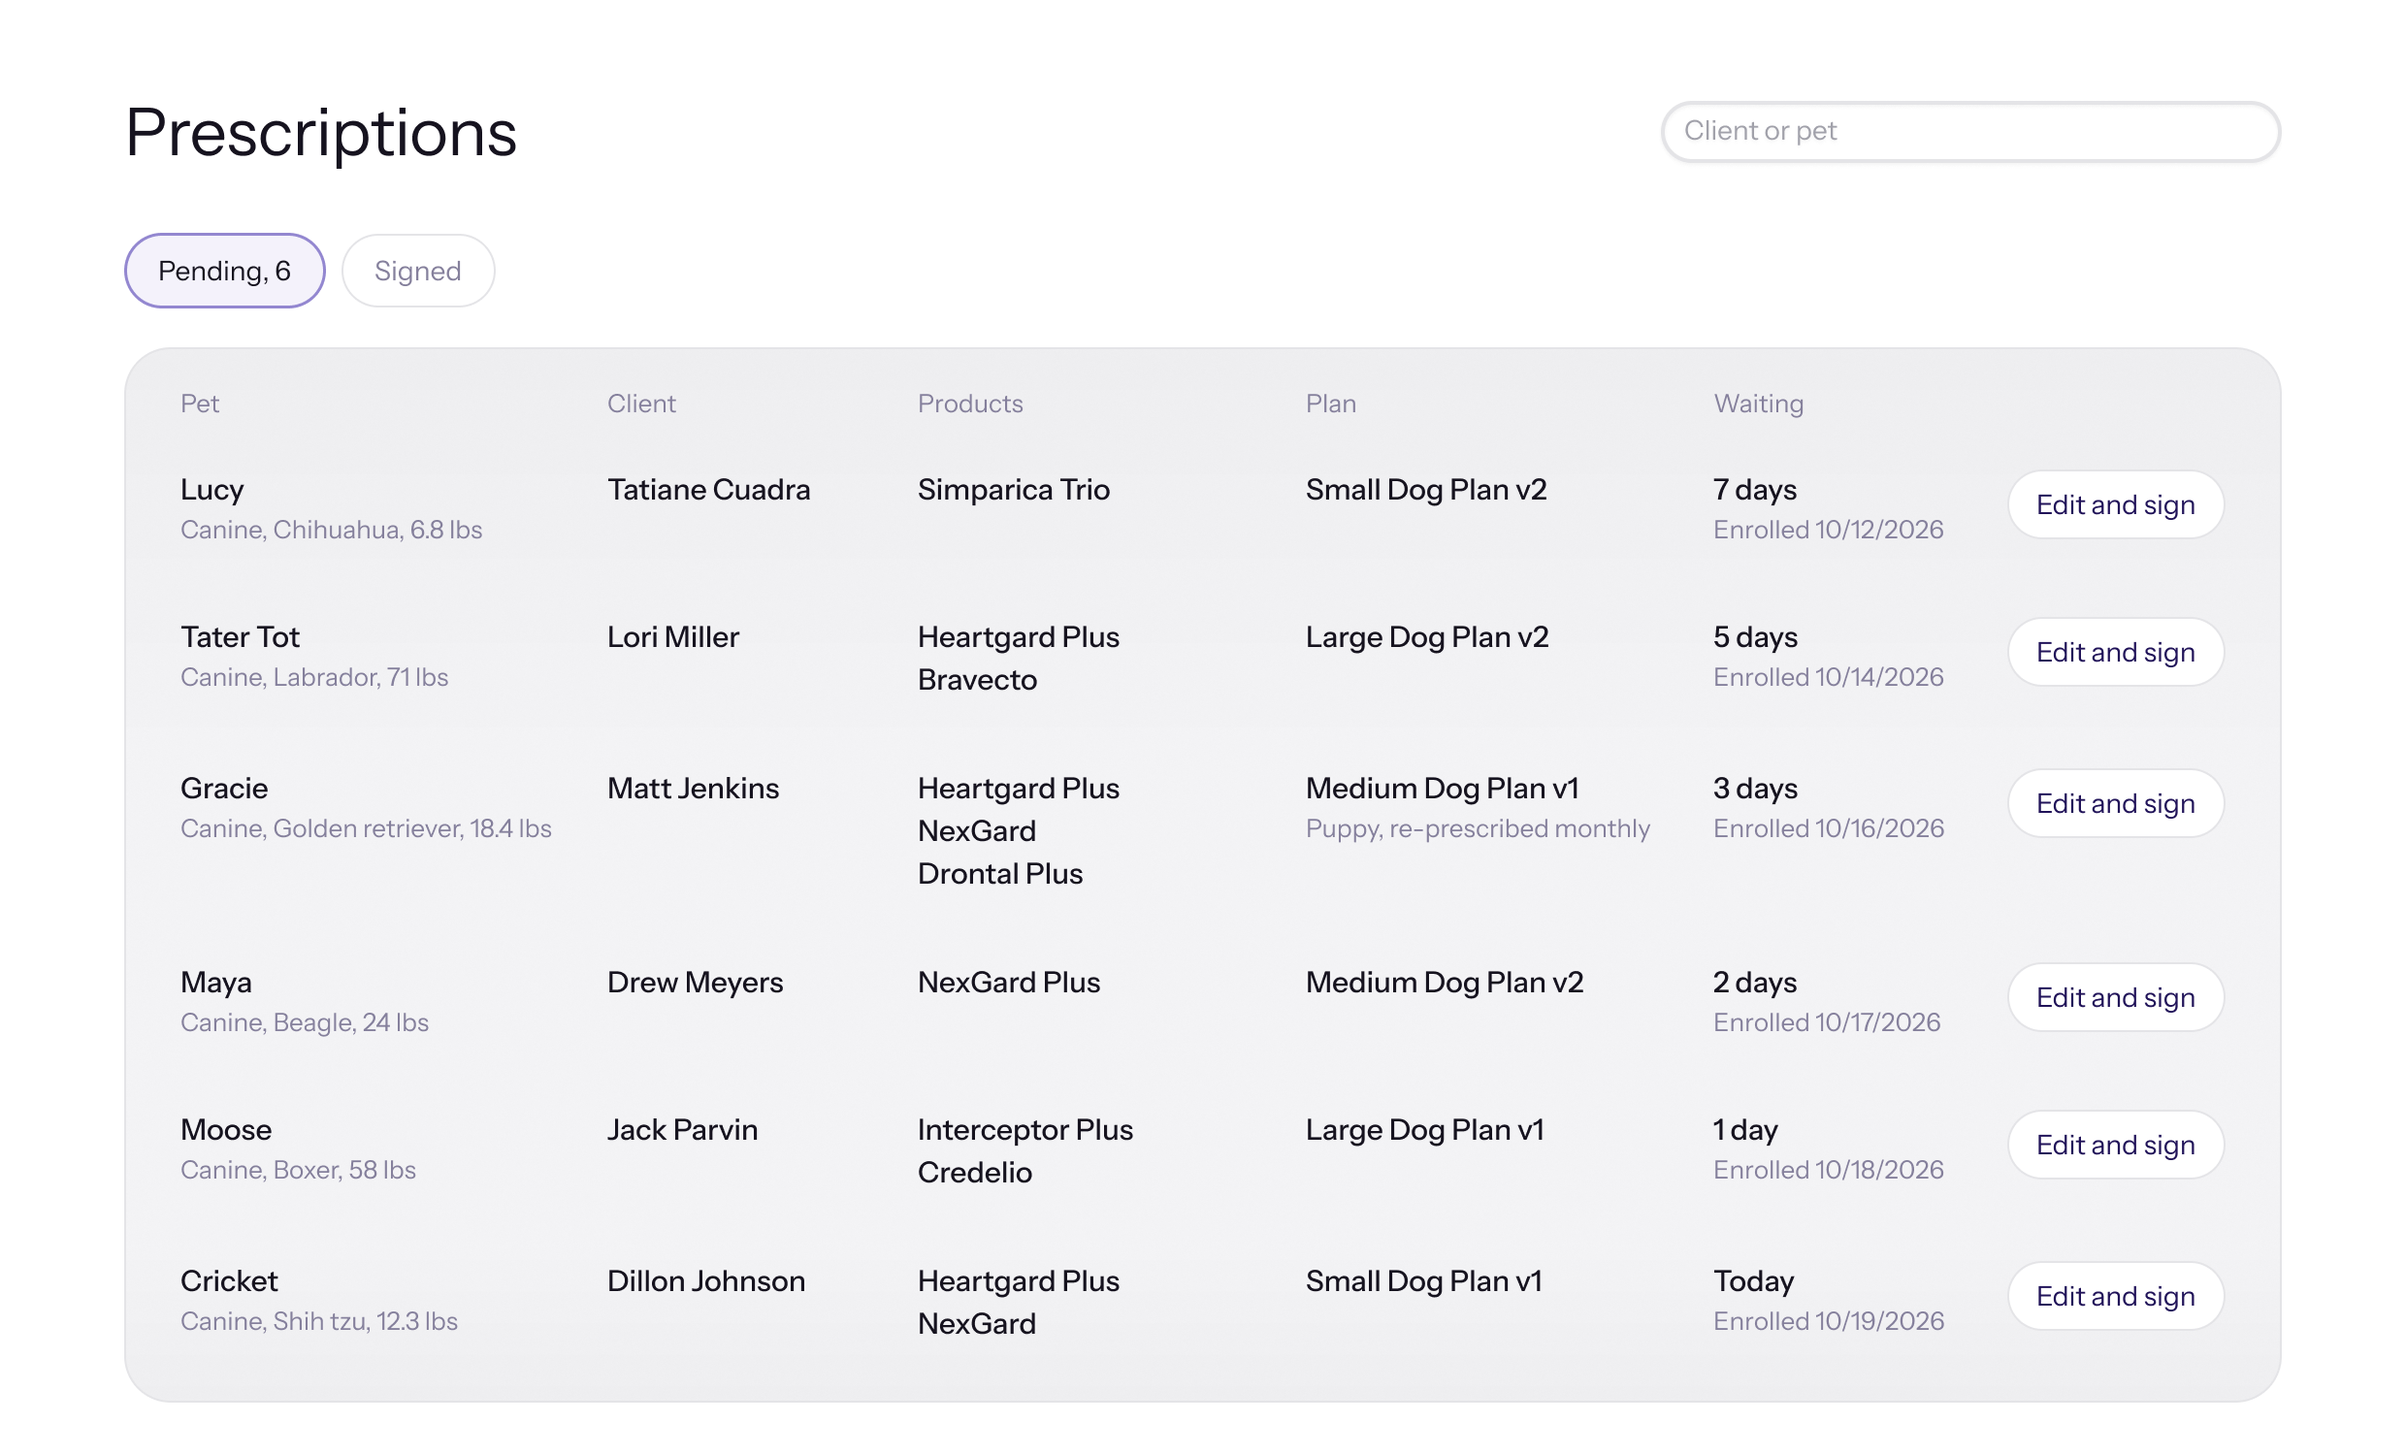
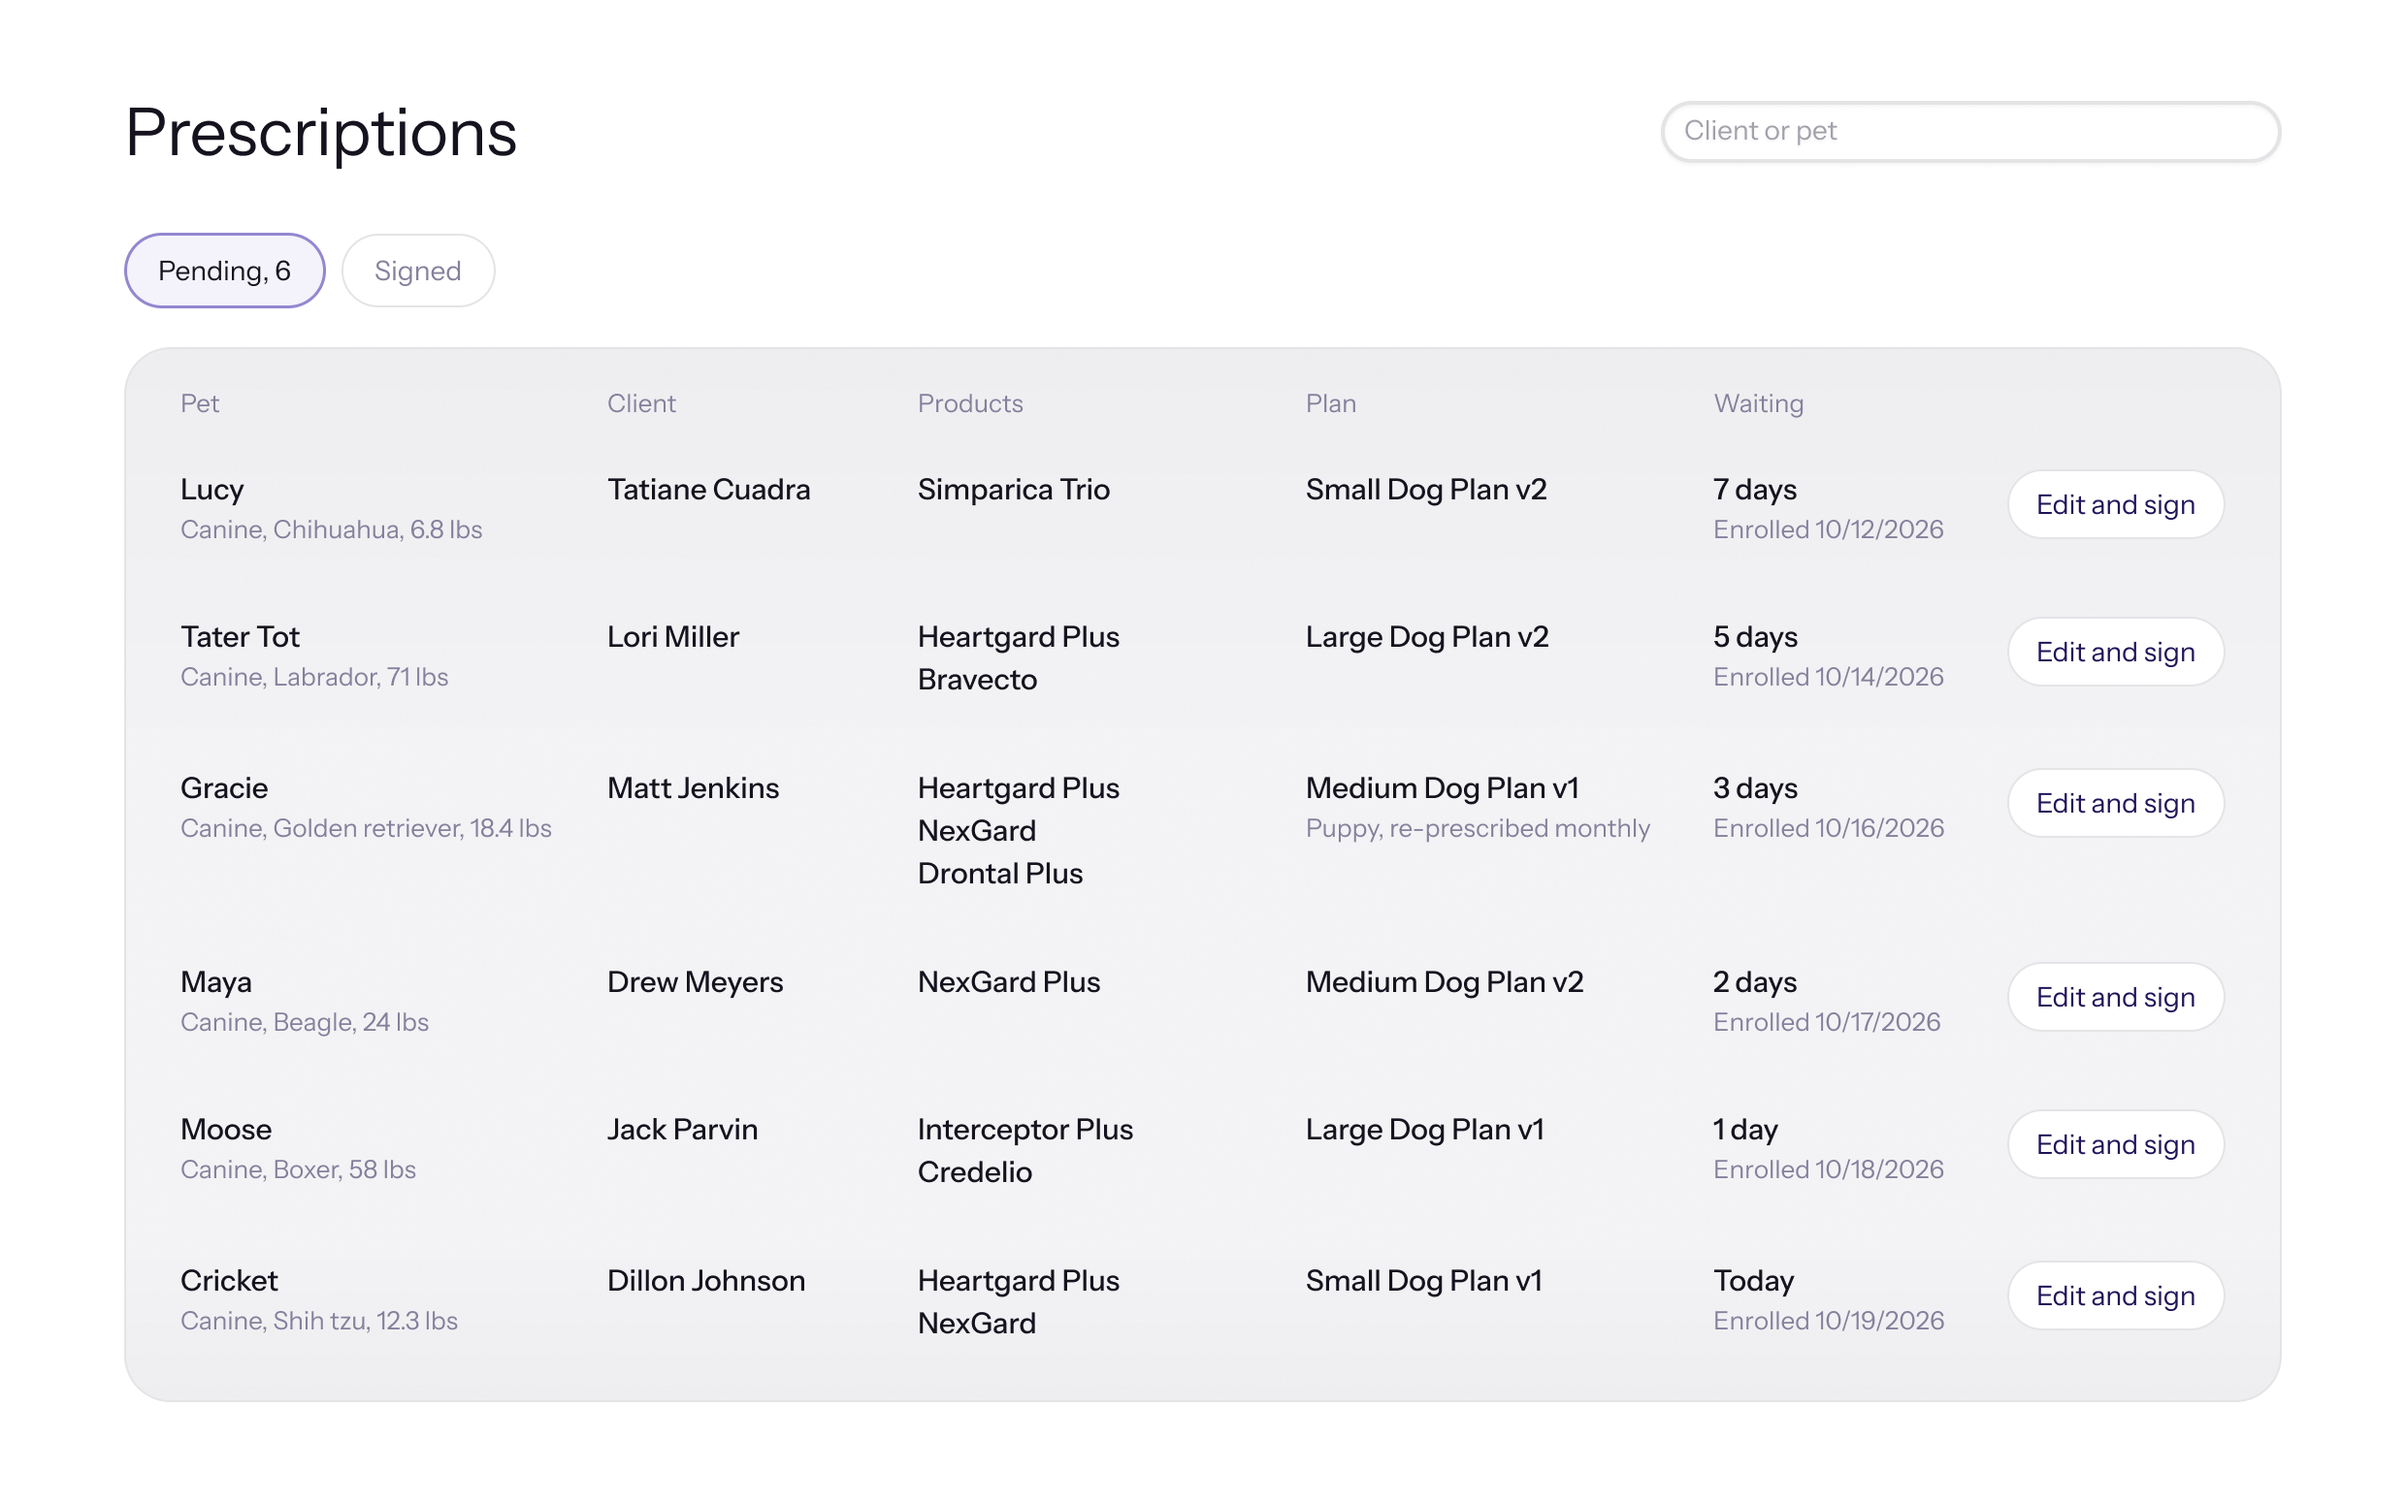
Easy Care: reorder Prescriptions copy

diff --git a/src/components/case/easy-care/nav.tsx b/src/components/case/easy-care/nav.tsx
@@ -1,0 +1,160 @@
+"use client";
+
+import { useEffect, useRef, useState } from "react";
+import localFont from "next/font/local";
+import { motion, useReducedMotion } from "motion/react";
+
+/**
+ * Easy Care's side navigation, assembling itself: the product name and clinic
+ * stay put while each section drops in, bounces and settles. It holds for a
+ * couple of beats, then everything falls away and it starts again. Same
+ * on-page container as the sign dialog (white, hairline border, no shadow);
+ * fixed size, so the page never shifts.
+ */
+const ecSans = localFont({
+  src: "../../../app/fonts/instrument-sans-latin-wght-normal.woff2",
+  weight: "400 700",
+  display: "swap",
+});
+
+const C = {
+  ink: "#16131F",
+  muted: "#85809C",
+  accent: "#9387D0",
+  border: "#E4E4E7",
+  tint: "#F4F2FB",
+};
+
+const ITEMS = [
+  "Enroll a pet",
+  "Plan activity",
+  "Service history",
+  "Prescriptions",
+  "Commissions",
+  "Orders",
+  "Plan settings",
+  "Reports",
+  "Doctors",
+];
+const ROW = 36; // px per nav row
+
+type Phase = "in" | "hold" | "out" | "gap";
+/** How long each phase lasts before the next begins. */
+const PHASE_MS: Record<Phase, number> = { in: 1400, hold: 2200, out: 950, gap: 350 };
+const NEXT: Record<Phase, Phase> = { in: "hold", hold: "out", out: "gap", gap: "in" };
+
+const DROP = { type: "spring", stiffness: 430, damping: 17, mass: 0.9 } as const;
+const FALL = [0.55, 0, 0.9, 0.4] as const; // gravity: slow start, fast finish
+const SOFT = [0.16, 1, 0.3, 1] as const;
+
+export function Nav() {
+  const reduce = useReducedMotion();
+  const [phase, setPhase] = useState<Phase>("in");
+  const [cycle, setCycle] = useState(0);
+  const stageRef = useRef<HTMLDivElement>(null);
+  const [inView, setInView] = useState(true);
+  const [tabVisible, setTabVisible] = useState(true);
+
+  useEffect(() => {
+    const el = stageRef.current;
+    if (!el || typeof IntersectionObserver === "undefined") return;
+    const io = new IntersectionObserver(([e]) => setInView(e.isIntersecting), { threshold: 0.15 });
+    io.observe(el);
+    const onVis = () => setTabVisible(document.visibilityState === "visible");
+    document.addEventListener("visibilitychange", onVis);
+    return () => {
+      io.disconnect();
+      document.removeEventListener("visibilitychange", onVis);
+    };
+  }, []);
+
+  const running = !reduce && inView && tabVisible;
+  useEffect(() => {
+    if (!running) return;
+    const t = window.setTimeout(() => {
+      const next = NEXT[phase];
+      if (next === "in") setCycle((c) => c + 1); // remount so items start above again
+      setPhase(next);
+    }, PHASE_MS[phase]);
+    return () => window.clearTimeout(t);
+  }, [phase, running]);
+
+  const shown = reduce ? "hold" : phase;
+  const last = ITEMS.length - 1;
+
+  return (
+    <figure className="my-2">
+      <div
+        ref={stageRef}
+        className={`${ecSans.className} mx-auto flex h-[27rem] w-full max-w-[30rem] justify-center overflow-hidden rounded-[24px] bg-white`}
+        style={{ color: C.ink, boxShadow: `inset 0 0 0 1px ${C.border}` }}
+        aria-hidden="true"
+      >
+        <div className="w-[13rem] pt-9">
+          <div className="px-3 pb-5">
+            <p className="text-[17px] leading-5 font-medium tracking-[-0.01em]">Easy Care</p>
+            <p className="mt-1 text-[12.5px] leading-4" style={{ color: C.muted }}>
+              K9 Resort Clinic Spa
+            </p>
+          </div>
+
+          <div className="relative">
+            {/* Selected state lands once the list has settled */}
+            <motion.span
+              className="absolute inset-x-0 top-0 rounded-full"
+              style={{ height: ROW, background: C.tint, boxShadow: `inset 0 0 0 1px ${C.accent}55` }}
+              initial={false}
+              animate={
+                shown === "hold"
+                  ? { opacity: 1, scale: 1, transition: { duration: 0.5, ease: SOFT, delay: reduce ? 0 : 0.15 } }
+                  : { opacity: 0, scale: 0.96, transition: { duration: 0.2 } }
+              }
+            />
+            <ul key={cycle} className="relative">
+              {ITEMS.map((label, i) => (
+                <motion.li
+                  key={label}
+                  className="flex items-center px-3 text-[14.5px]"
+                  style={{ height: ROW, color: i === 0 ? C.ink : C.muted, transformOrigin: "50% 0%" }}
+                  initial={reduce ? false : { y: -34, opacity: 0, filter: "blur(6px)" }}
+                  animate={
+                    shown === "out" || shown === "gap"
+                      ? {
+                          y: 140 + (last - i) * 6,
+                          opacity: 0,
+                          rotate: i % 2 ? 2.5 : -2,
+                          filter: "blur(3px)",
+                          transition: {
+                            duration: 0.6,
+                            ease: FALL,
+                            delay: (last - i) * 0.035, // bottom lets go first
+                            opacity: { duration: 0.35, ease: "easeIn", delay: (last - i) * 0.035 + 0.25 },
+                          },
+                        }
+                      : {
+                          y: 0,
+                          opacity: 1,
+                          rotate: 0,
+                          filter: "blur(0px)",
+                          transition: {
+                            y: { ...DROP, delay: i * 0.055 },
+                            opacity: { duration: 0.25, ease: "easeOut", delay: i * 0.055 },
+                            filter: { duration: 0.35, ease: SOFT, delay: i * 0.055 },
+                          },
+                        }
+                  }
+                >
+                  {label}
+                </motion.li>
+              ))}
+            </ul>
+          </div>
+        </div>
+      </div>
+      <p className="sr-only">
+        Easy Care&rsquo;s side navigation: Enroll a pet, Plan activity, Service history, Prescriptions, Commissions,
+        Orders, Plan settings, Reports and Doctors.
+      </p>
+    </figure>
+  );
+}

diff --git a/src/components/case/easy-care/sign.tsx b/src/components/case/easy-care/sign.tsx
@@ -115,11 +115,10 @@ export function Sign() {
         style={{ color: C.ink }}
         aria-hidden="true"
       >
-        {/* Same on-page container as the enrollment cart: soft grey, hairline border, no shadow. */}
+        {/* Same on-page container as the enrollment cart: white, hairline border, no shadow. */}
         <div
-          className="w-full rounded-[24px] px-7 pt-8 pb-7"
+          className="w-full rounded-[24px] bg-white px-7 pt-8 pb-7"
           style={{
-            background: `linear-gradient(180deg, ${C.edge} 0%, ${C.mid} 40%, ${C.mid} 85%, ${C.edge} 100%)`,
             boxShadow: `inset 0 0 0 1px ${C.border}`,
           }}
         >
@@ -127,7 +126,7 @@ export function Sign() {
           <div className="flex items-center gap-3.5">
             <span
               className="flex size-11 shrink-0 items-center justify-center rounded-full"
-              style={{ background: "#FFFFFF", boxShadow: `inset 0 0 0 1px ${C.border}` }}
+              style={{ background: `linear-gradient(180deg, ${C.edge}, ${C.mid})` }}
             >
               <svg width="20" height="20" viewBox="0 0 24 24" fill="none">
                 <path d="M12 20h9" stroke={C.primary} strokeWidth="1.75" strokeLinecap="round" />
@@ -147,7 +146,7 @@ export function Sign() {
           {/* Prescription */}
           <dl
             className="mt-6 grid grid-cols-[6rem_1fr] gap-x-4 gap-y-3 rounded-[18px] px-5 py-4 text-[14px] leading-5"
-            style={{ background: "#FFFFFF", boxShadow: `inset 0 0 0 1px ${C.border}` }}
+            style={{ background: `linear-gradient(180deg, ${C.edge} 0%, ${C.mid} 45%, ${C.mid} 85%, ${C.edge} 100%)` }}
           >
             {[
               ["Drug", "NexGard (afoxolaner) soft chewable"],

diff --git a/src/mdx-components.tsx b/src/mdx-components.tsx
@@ -11,6 +11,7 @@ import { EnrollmentFlow } from "@/components/case/easy-care/enrollment-flow";
 import { SignCard } from "@/components/case/easy-care/sign-card";
 import { Cart } from "@/components/case/easy-care/cart";
 import { Sign } from "@/components/case/easy-care/sign";
+import { Nav } from "@/components/case/easy-care/nav";
 
 /**
  * Global MDX components. Case studies are written in markdown and drop
@@ -30,6 +31,7 @@ const components: MDXComponents = {
   SignCard,
   Cart,
   Sign,
+  Nav,
   h2: (props) => <h2 className="mt-8 text-title font-medium text-ink" {...props} />,
   h3: (props) => <h3 className="mt-4 text-body font-medium text-ink" {...props} />,
   p: (props) => <p className="text-body text-ink-2" {...props} />,
